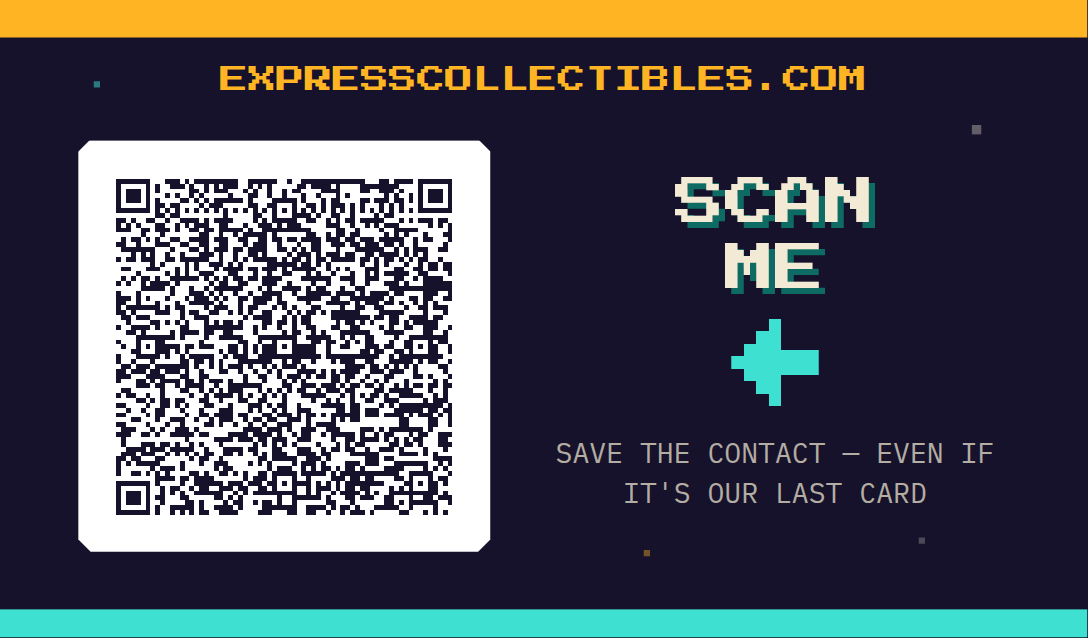
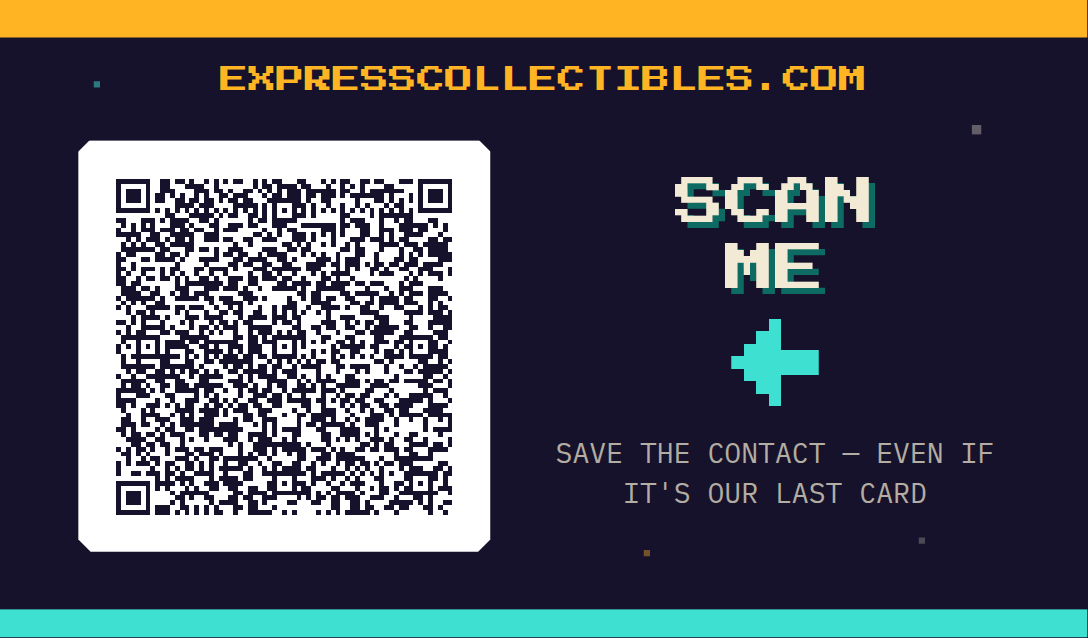
Align vCard QR fields with the printed card
Lowercase the email, use the bare expresscollectibles.com URL (the
verified-working form), and restore the Buy / Sell / Trade slashes in
the vCard NOTE so a scanned contact matches the card text exactly.
QR stays version 13 ECC L; decode re-verified from the 300-dpi render.

Claude-Session: https://claude.ai/code/session_01Geuxd3bL8dYRBZWdDErjeD

Changed region(s): [[0.0938, 0.268, 0.4375, 0.8339]]

diff --git a/express-collectibles/business-card/Back.dc.html b/express-collectibles/business-card/Back.dc.html
@@ -46,7 +46,7 @@
       <div style="flex: none; background: #ffffff; padding: 6px; clip-path: polygon(4px 0, calc(100% - 4px) 0, 100% 4px, 100% calc(100% - 4px), calc(100% - 4px) 100%, 4px 100%, 0 calc(100% - 4px), 0 4px);">
         <svg width="120" height="120" viewBox="0 0 77 77" shape-rendering="crispEdges" style="display: block;">
           <path fill="#ffffff" d="M0 0h77v77h-77z"></path>
-          <path stroke="#16122b" stroke-width="1" fill="none" d="M4 4.5h7m3 0h3m1 0h1m1 0h9m2 0h6m2 0h1m2 0h13m3 0h2m1 0h4m1 0h7m-69 1h1m5 0h1m1 0h1m2 0h3m1 0h1m2 0h1m1 0h1m1 0h3m2 0h1m1 0h1m1 0h1m5 0h2m1 0h4m1 0h1m4 0h8m4 0h1m5 0h1m-69 1h1m1 0h3m1 0h1m1 0h1m6 0h2m1 0h1m1 0h3m3 0h1m1 0h1m2 0h1m2 0h1m1 0h2m4 0h4m4 0h2m2 0h3m1 0h1m3 0h1m1 0h3m1 0h1m-69 1h1m1 0h3m1 0h1m3 0h1m1 0h1m2 0h1m1 0h1m5 0h1m3 0h2m2 0h1m2 0h1m3 0h1m2 0h1m3 0h1m1 0h1m7 0h1m1 0h1m2 0h1m1 0h1m1 0h3m1 0h1m-69 1h1m1 0h3m1 0h1m1 0h1m4 0h2m1 0h1m1 0h1m1 0h6m1 0h1m4 0h5m1 0h1m3 0h1m1 0h2m4 0h2m1 0h3m1 0h2m1 0h1m1 0h1m1 0h3m1 0h1m-69 1h1m5 0h1m1 0h2m1 0h2m4 0h1m1 0h3m5 0h2m2 0h2m3 0h1m2 0h2m1 0h1m1 0h3m1 0h1m1 0h1m3 0h1m1 0h1m1 0h1m3 0h1m5 0h1m-69 1h7m1 0h1m1 0h1m1 0h1m1 0h1m1 0h1m1 0h1m1 0h1m1 0h1m1 0h1m1 0h1m1 0h1m1 0h1m1 0h1m1 0h1m1 0h1m1 0h1m1 0h1m1 0h1m1 0h1m1 0h1m1 0h1m1 0h1m1 0h1m1 0h1m1 0h1m1 0h1m1 0h1m1 0h7m-61 1h2m1 0h2m9 0h1m5 0h2m2 0h1m3 0h4m1 0h1m2 0h2m2 0h1m4 0h1m1 0h2m-57 1h2m1 0h1m2 0h2m2 0h1m2 0h4m1 0h1m1 0h4m4 0h1m1 0h1m1 0h5m2 0h2m2 0h1m1 0h1m1 0h2m1 0h5m3 0h1m1 0h1m1 0h3m1 0h2m-68 1h1m1 0h1m1 0h1m3 0h2m2 0h1m1 0h1m1 0h3m2 0h2m3 0h1m2 0h3m1 0h1m1 0h3m5 0h3m2 0h1m2 0h1m1 0h1m1 0h3m6 0h1m1 0h1m1 0h1m-69 1h3m2 0h2m1 0h3m1 0h1m2 0h2m1 0h2m1 0h5m1 0h1m2 0h10m5 0h2m2 0h1m4 0h1m2 0h5m6 0h1m-64 1h1m3 0h1m7 0h2m2 0h1m2 0h1m1 0h5m1 0h1m6 0h2m2 0h1m1 0h2m1 0h2m5 0h1m1 0h1m1 0h1m3 0h1m3 0h2m-68 1h1m1 0h2m1 0h1m1 0h1m2 0h2m2 0h4m1 0h3m2 0h2m2 0h2m1 0h2m1 0h2m1 0h4m1 0h3m1 0h2m1 0h3m1 0h5m2 0h1m1 0h2m3 0h1m-69 1h2m2 0h1m3 0h3m2 0h2m2 0h2m2 0h2m3 0h1m1 0h3m2 0h1m3 0h1m2 0h2m2 0h3m1 0h2m1 0h3m1 0h2m1 0h1m2 0h1m5 0h1m-67 1h7m3 0h1m3 0h2m1 0h1m1 0h3m1 0h2m1 0h4m2 0h2m1 0h1m1 0h1m1 0h2m3 0h1m3 0h6m2 0h1m1 0h1m1 0h3m2 0h2m-65 1h1m1 0h1m1 0h1m2 0h1m2 0h1m3 0h3m1 0h1m2 0h1m2 0h2m1 0h1m4 0h1m1 0h3m1 0h1m1 0h3m1 0h2m2 0h2m1 0h4m1 0h1m1 0h1m1 0h1m-64 1h1m1 0h2m1 0h3m2 0h2m1 0h6m2 0h1m2 0h1m1 0h1m1 0h5m1 0h1m1 0h2m1 0h1m1 0h2m1 0h5m1 0h2m1 0h1m1 0h2m1 0h1m1 0h1m1 0h2m2 0h1m-60 1h1m1 0h1m4 0h1m1 0h1m2 0h3m1 0h1m1 0h1m5 0h6m1 0h2m1 0h1m1 0h1m6 0h1m2 0h1m1 0h1m3 0h1m2 0h1m1 0h2m1 0h2m-68 1h2m3 0h3m3 0h1m1 0h1m1 0h1m3 0h1m1 0h4m1 0h2m1 0h3m1 0h1m1 0h5m2 0h1m1 0h1m1 0h1m3 0h3m3 0h2m2 0h2m1 0h2m1 0h2m-65 1h1m5 0h1m1 0h1m1 0h1m2 0h3m3 0h2m3 0h1m2 0h1m2 0h2m3 0h1m1 0h1m2 0h1m3 0h1m2 0h1m1 0h1m1 0h5m2 0h2m4 0h1m-68 1h1m1 0h1m1 0h2m1 0h1m2 0h6m1 0h1m1 0h1m1 0h1m1 0h2m1 0h2m1 0h4m4 0h6m2 0h3m2 0h3m3 0h2m2 0h1m1 0h4m-67 1h1m1 0h1m2 0h1m1 0h4m1 0h1m6 0h1m1 0h2m2 0h2m3 0h3m2 0h1m4 0h1m2 0h1m4 0h1m2 0h1m3 0h3m1 0h1m3 0h6m-64 1h5m1 0h1m3 0h1m2 0h1m1 0h6m3 0h1m1 0h1m2 0h4m1 0h1m1 0h2m3 0h1m2 0h2m5 0h13m-69 1h1m3 0h1m6 0h1m3 0h3m1 0h1m1 0h1m2 0h1m2 0h1m2 0h4m2 0h1m2 0h5m1 0h4m1 0h1m1 0h4m1 0h2m4 0h3m2 0h1m-69 1h3m1 0h1m1 0h1m3 0h1m3 0h1m1 0h3m1 0h1m1 0h1m2 0h2m1 0h4m1 0h1m3 0h5m2 0h2m2 0h7m1 0h1m3 0h2m1 0h2m2 0h2m-69 1h2m2 0h1m3 0h1m3 0h1m2 0h5m1 0h1m3 0h1m2 0h3m2 0h2m4 0h1m3 0h5m1 0h1m1 0h3m1 0h2m1 0h1m2 0h1m1 0h1m1 0h1m-66 1h1m1 0h7m1 0h1m1 0h2m4 0h1m1 0h3m2 0h1m1 0h2m3 0h1m1 0h1m1 0h1m3 0h2m4 0h1m2 0h2m2 0h2m4 0h1m2 0h2m1 0h3m-68 1h2m1 0h1m4 0h3m2 0h1m1 0h2m2 0h2m2 0h1m1 0h1m1 0h1m2 0h2m3 0h1m1 0h1m1 0h2m1 0h1m1 0h6m4 0h5m4 0h1m3 0h1m-67 1h2m1 0h3m6 0h1m2 0h3m7 0h1m1 0h4m2 0h1m1 0h1m1 0h2m4 0h8m1 0h2m1 0h2m2 0h4m1 0h2m-65 1h1m4 0h2m1 0h1m1 0h1m1 0h1m3 0h1m1 0h1m1 0h2m1 0h1m4 0h2m1 0h2m1 0h1m1 0h2m5 0h1m1 0h2m1 0h1m1 0h1m3 0h2m1 0h1m1 0h5m-66 1h1m2 0h4m1 0h1m4 0h2m3 0h8m2 0h1m1 0h1m2 0h1m2 0h1m2 0h2m3 0h2m2 0h2m4 0h1m1 0h1m2 0h2m2 0h3m2 0h1m-67 1h2m1 0h1m5 0h1m1 0h4m1 0h2m2 0h2m4 0h1m5 0h1m1 0h2m2 0h1m1 0h1m3 0h6m3 0h4m4 0h2m2 0h1m-64 1h8m1 0h1m4 0h1m2 0h5m3 0h8m2 0h5m2 0h1m1 0h1m2 0h2m4 0h1m2 0h8m-68 1h1m3 0h1m3 0h2m7 0h1m7 0h2m2 0h1m2 0h1m3 0h1m3 0h2m1 0h2m2 0h1m1 0h1m1 0h2m3 0h1m2 0h2m3 0h1m1 0h2m-67 1h1m2 0h1m1 0h1m1 0h5m1 0h2m1 0h3m3 0h2m1 0h1m1 0h1m1 0h3m1 0h1m1 0h5m2 0h1m2 0h2m3 0h3m1 0h2m2 0h2m1 0h1m1 0h2m2 0h1m-66 1h2m3 0h3m1 0h1m1 0h1m6 0h1m1 0h2m1 0h1m1 0h1m1 0h3m3 0h5m2 0h1m6 0h2m1 0h2m2 0h2m1 0h1m3 0h2m2 0h1m-69 1h1m3 0h5m1 0h1m2 0h1m1 0h5m2 0h1m1 0h3m2 0h13m1 0h11m2 0h1m1 0h9m-67 1h1m2 0h1m3 0h1m5 0h2m1 0h2m1 0h1m1 0h1m3 0h7m2 0h1m1 0h2m2 0h1m3 0h1m1 0h3m2 0h2m3 0h5m1 0h1m1 0h2m2 0h1m-68 1h2m1 0h3m1 0h7m1 0h1m2 0h1m1 0h1m1 0h3m1 0h1m2 0h1m1 0h1m1 0h3m1 0h1m8 0h4m1 0h2m1 0h1m1 0h1m1 0h1m1 0h1m4 0h2m-68 1h2m1 0h3m1 0h2m1 0h3m1 0h1m2 0h1m3 0h2m2 0h1m2 0h1m2 0h1m1 0h1m3 0h4m1 0h1m1 0h1m1 0h4m2 0h3m1 0h3m2 0h1m5 0h1m-68 1h3m3 0h4m3 0h2m2 0h2m7 0h1m2 0h2m2 0h1m1 0h3m1 0h1m1 0h2m1 0h2m1 0h2m2 0h1m3 0h2m4 0h2m1 0h1m3 0h1m-69 1h1m3 0h2m1 0h1m1 0h4m1 0h2m1 0h1m1 0h3m1 0h1m2 0h1m3 0h1m3 0h1m1 0h1m1 0h1m5 0h2m1 0h1m2 0h1m2 0h1m1 0h1m3 0h1m5 0h1m1 0h1m-64 1h3m1 0h2m2 0h1m1 0h4m2 0h1m2 0h7m4 0h2m2 0h3m1 0h3m1 0h1m1 0h2m1 0h2m1 0h1m2 0h1m1 0h1m1 0h2m1 0h2m1 0h2m-68 1h2m6 0h1m3 0h2m2 0h1m1 0h1m1 0h1m1 0h3m3 0h1m1 0h1m1 0h1m1 0h1m1 0h2m2 0h1m1 0h3m1 0h2m4 0h2m1 0h5m3 0h1m2 0h1m-68 1h1m1 0h2m2 0h1m2 0h1m5 0h1m2 0h1m1 0h4m1 0h1m1 0h1m2 0h1m1 0h1m1 0h1m3 0h5m3 0h1m1 0h1m1 0h1m1 0h2m1 0h1m2 0h5m2 0h1m1 0h1m-64 1h2m1 0h1m1 0h2m1 0h2m3 0h2m2 0h1m3 0h2m2 0h2m3 0h1m5 0h1m2 0h1m1 0h1m2 0h1m2 0h2m2 0h3m5 0h1m1 0h3m-68 1h2m4 0h1m2 0h2m1 0h1m1 0h1m3 0h2m3 0h1m3 0h3m1 0h1m1 0h2m2 0h1m4 0h5m1 0h2m4 0h1m1 0h1m1 0h9m1 0h1m-67 1h1m2 0h1m2 0h2m3 0h1m3 0h1m3 0h3m3 0h1m1 0h1m2 0h1m1 0h1m2 0h3m5 0h2m1 0h2m1 0h3m3 0h6m1 0h2m1 0h2m-69 1h2m4 0h1m1 0h2m4 0h1m2 0h2m1 0h4m1 0h2m3 0h2m1 0h3m1 0h1m1 0h2m1 0h1m1 0h6m1 0h3m1 0h4m1 0h1m1 0h3m1 0h1m1 0h1m-66 1h2m3 0h1m2 0h3m2 0h1m2 0h1m1 0h3m2 0h1m1 0h2m1 0h2m2 0h3m1 0h1m4 0h1m1 0h1m1 0h2m8 0h2m4 0h2m2 0h1m-69 1h2m4 0h1m3 0h1m2 0h1m4 0h2m1 0h1m2 0h1m2 0h1m2 0h1m2 0h3m3 0h1m1 0h4m13 0h2m4 0h2m2 0h1m-68 1h3m3 0h1m1 0h1m2 0h3m1 0h1m9 0h4m1 0h3m1 0h1m2 0h3m2 0h3m4 0h3m1 0h1m1 0h7m1 0h1m-65 1h3m2 0h2m1 0h1m2 0h5m1 0h2m4 0h4m1 0h4m1 0h1m2 0h1m1 0h2m2 0h1m1 0h5m1 0h1m2 0h1m1 0h2m3 0h1m1 0h2m2 0h3m-68 1h1m12 0h1m5 0h4m1 0h3m1 0h2m1 0h3m2 0h3m4 0h1m2 0h2m1 0h4m1 0h1m1 0h1m1 0h1m1 0h2m3 0h2m-67 1h1m3 0h3m1 0h2m1 0h1m2 0h1m1 0h1m3 0h1m6 0h1m1 0h1m1 0h1m1 0h1m1 0h1m4 0h1m3 0h1m1 0h1m1 0h2m5 0h2m1 0h2m1 0h1m3 0h3m-67 1h4m1 0h3m1 0h5m2 0h1m3 0h4m1 0h2m3 0h2m3 0h3m2 0h1m1 0h2m1 0h2m2 0h1m2 0h3m1 0h1m4 0h1m3 0h1m-67 1h3m1 0h3m2 0h1m1 0h1m1 0h1m1 0h1m1 0h2m2 0h2m1 0h1m2 0h1m1 0h1m1 0h3m2 0h4m1 0h2m4 0h6m4 0h4m1 0h1m1 0h1m-66 1h2m1 0h2m3 0h2m5 0h1m1 0h2m2 0h1m7 0h2m1 0h5m2 0h3m1 0h1m7 0h3m1 0h2m8 0h4m-69 1h1m1 0h1m1 0h5m4 0h1m3 0h1m2 0h3m4 0h1m1 0h1m1 0h1m4 0h1m1 0h3m1 0h1m4 0h3m1 0h3m3 0h7m2 0h1m1 0h1m-69 1h1m6 0h1m1 0h3m1 0h1m6 0h1m1 0h2m7 0h1m1 0h3m2 0h1m1 0h1m1 0h2m1 0h1m1 0h2m1 0h1m4 0h4m4 0h1m1 0h1m1 0h1m-68 1h1m2 0h2m1 0h1m1 0h1m1 0h1m4 0h2m1 0h1m2 0h2m1 0h1m1 0h1m2 0h2m1 0h5m1 0h5m1 0h1m1 0h12m2 0h5m3 0h1m-61 1h4m1 0h2m1 0h4m6 0h1m1 0h3m1 0h1m3 0h1m2 0h1m4 0h3m1 0h2m1 0h2m4 0h2m1 0h1m3 0h1m1 0h2m-68 1h7m1 0h1m4 0h1m2 0h6m1 0h3m1 0h3m1 0h2m1 0h1m1 0h4m1 0h1m1 0h1m1 0h1m1 0h8m4 0h2m1 0h1m1 0h2m1 0h1m-68 1h1m5 0h1m2 0h1m1 0h2m2 0h1m1 0h2m2 0h3m1 0h2m2 0h2m1 0h1m3 0h1m2 0h1m1 0h3m1 0h1m1 0h2m1 0h2m4 0h1m1 0h1m1 0h1m3 0h2m-66 1h1m1 0h3m1 0h1m2 0h1m1 0h1m1 0h1m2 0h6m2 0h1m1 0h1m1 0h9m2 0h1m1 0h1m2 0h1m1 0h4m1 0h1m1 0h1m2 0h10m1 0h1m-68 1h1m1 0h3m1 0h1m1 0h2m3 0h2m5 0h2m1 0h1m1 0h1m7 0h1m2 0h6m1 0h1m3 0h2m1 0h3m2 0h2m3 0h1m2 0h2m1 0h3m-69 1h1m1 0h3m1 0h1m2 0h1m4 0h2m1 0h1m4 0h1m1 0h2m2 0h1m1 0h2m1 0h1m2 0h1m6 0h2m3 0h1m6 0h2m1 0h1m1 0h6m2 0h1m-69 1h1m5 0h1m1 0h1m2 0h5m1 0h1m2 0h4m1 0h1m4 0h7m2 0h4m1 0h1m1 0h2m1 0h1m3 0h5m2 0h1m4 0h1m-66 1h7m1 0h1m2 0h1m1 0h1m1 0h1m1 0h2m2 0h4m4 0h3m3 0h2m2 0h2m2 0h1m2 0h1m1 0h3m1 0h1m5 0h2m3 0h1m1 0h1m1 0h1"></path>
+          <path stroke="#16122b" stroke-width="1" fill="none" d="M4 4.5h7m2 0h2m1 0h2m1 0h1m2 0h1m1 0h1m1 0h1m1 0h2m2 0h1m1 0h1m1 0h2m3 0h2m3 0h1m1 0h1m1 0h2m2 0h2m1 0h2m3 0h3m1 0h7m-69 1h1m5 0h1m2 0h2m3 0h4m2 0h1m7 0h1m1 0h2m1 0h4m1 0h2m3 0h1m2 0h1m1 0h1m1 0h1m4 0h2m5 0h1m5 0h1m-69 1h1m1 0h3m1 0h1m2 0h3m4 0h3m1 0h2m1 0h1m2 0h2m1 0h1m1 0h1m1 0h1m1 0h3m1 0h6m1 0h2m2 0h1m1 0h7m3 0h1m1 0h3m1 0h1m-69 1h1m1 0h3m1 0h1m1 0h2m1 0h1m1 0h1m2 0h1m1 0h1m2 0h2m1 0h3m3 0h1m1 0h2m1 0h3m1 0h2m1 0h3m1 0h1m1 0h7m1 0h1m3 0h1m1 0h1m1 0h3m1 0h1m-69 1h1m1 0h3m1 0h1m1 0h2m2 0h2m1 0h2m1 0h2m1 0h1m1 0h2m1 0h2m3 0h7m1 0h1m2 0h2m5 0h1m3 0h2m1 0h1m1 0h1m1 0h1m1 0h1m1 0h3m1 0h1m-69 1h1m5 0h1m5 0h4m1 0h3m4 0h5m1 0h1m1 0h1m3 0h3m1 0h1m2 0h1m2 0h1m2 0h1m1 0h1m3 0h1m1 0h2m3 0h1m5 0h1m-69 1h7m1 0h1m1 0h1m1 0h1m1 0h1m1 0h1m1 0h1m1 0h1m1 0h1m1 0h1m1 0h1m1 0h1m1 0h1m1 0h1m1 0h1m1 0h1m1 0h1m1 0h1m1 0h1m1 0h1m1 0h1m1 0h1m1 0h1m1 0h1m1 0h1m1 0h1m1 0h1m1 0h1m1 0h7m-59 1h2m3 0h5m1 0h1m1 0h2m2 0h2m1 0h1m1 0h1m3 0h3m1 0h1m5 0h2m4 0h1m1 0h7m-61 1h2m3 0h3m1 0h1m1 0h4m2 0h2m1 0h1m6 0h1m1 0h2m1 0h5m9 0h1m1 0h3m3 0h1m2 0h1m1 0h2m3 0h2m-65 1h1m1 0h1m1 0h1m1 0h1m3 0h3m1 0h1m3 0h2m2 0h3m1 0h2m3 0h3m3 0h7m1 0h2m1 0h3m2 0h1m3 0h6m1 0h1m1 0h1m-68 1h1m2 0h1m1 0h3m1 0h3m1 0h2m1 0h2m2 0h1m1 0h3m5 0h1m2 0h1m1 0h2m5 0h3m1 0h1m3 0h2m2 0h3m1 0h3m1 0h2m3 0h1m-68 1h5m2 0h2m2 0h5m2 0h3m7 0h2m1 0h1m1 0h1m2 0h3m1 0h1m1 0h1m1 0h1m1 0h1m3 0h2m2 0h1m1 0h1m2 0h4m3 0h1m-65 1h1m1 0h1m1 0h3m1 0h1m1 0h2m1 0h1m2 0h3m1 0h2m2 0h2m2 0h3m3 0h3m1 0h1m3 0h1m3 0h3m1 0h3m1 0h1m1 0h2m4 0h2m1 0h2m-68 1h1m1 0h1m1 0h1m2 0h2m1 0h5m8 0h1m2 0h1m6 0h2m1 0h1m1 0h1m2 0h1m1 0h1m2 0h1m1 0h1m4 0h4m1 0h3m1 0h5m-67 1h7m1 0h2m3 0h2m1 0h2m1 0h1m2 0h3m4 0h3m2 0h2m1 0h2m6 0h2m1 0h2m3 0h1m3 0h1m2 0h2m1 0h4m-68 1h1m1 0h2m4 0h2m1 0h2m1 0h1m5 0h1m1 0h2m1 0h2m2 0h1m1 0h4m3 0h1m1 0h1m1 0h1m2 0h1m3 0h2m2 0h1m4 0h1m1 0h1m1 0h1m1 0h5m-69 1h2m3 0h2m1 0h4m1 0h1m3 0h4m3 0h2m1 0h4m2 0h2m1 0h1m4 0h3m1 0h1m1 0h3m3 0h1m3 0h2m1 0h2m4 0h3m-69 1h1m2 0h1m8 0h1m5 0h1m4 0h2m1 0h2m2 0h2m2 0h2m3 0h4m1 0h2m1 0h3m1 0h1m1 0h2m1 0h2m1 0h3m1 0h4m-67 1h2m1 0h1m1 0h3m1 0h1m1 0h2m3 0h2m1 0h4m1 0h1m3 0h3m1 0h6m1 0h3m3 0h1m1 0h1m1 0h1m2 0h2m1 0h1m2 0h2m2 0h3m3 0h1m-69 1h1m1 0h1m2 0h1m3 0h1m1 0h1m1 0h1m2 0h1m2 0h1m2 0h1m4 0h1m2 0h2m1 0h1m2 0h1m3 0h1m1 0h1m1 0h4m4 0h1m1 0h3m3 0h1m1 0h1m1 0h3m1 0h1m-69 1h2m2 0h1m1 0h2m1 0h2m1 0h1m1 0h1m2 0h2m1 0h1m2 0h3m1 0h2m1 0h3m1 0h2m2 0h1m3 0h2m1 0h1m2 0h1m10 0h1m1 0h1m4 0h1m-67 1h2m1 0h2m7 0h1m1 0h8m1 0h2m2 0h2m4 0h2m1 0h4m1 0h2m1 0h4m1 0h2m1 0h3m3 0h1m1 0h3m-62 1h3m1 0h2m1 0h1m3 0h3m3 0h3m1 0h3m1 0h1m2 0h1m2 0h5m1 0h1m2 0h6m4 0h1m3 0h1m2 0h3m3 0h3m-66 1h4m2 0h2m2 0h1m1 0h2m1 0h3m6 0h3m9 0h2m1 0h2m4 0h2m1 0h5m2 0h1m1 0h1m1 0h3m1 0h4m-68 1h1m1 0h6m1 0h1m2 0h5m1 0h2m1 0h3m2 0h3m1 0h1m4 0h1m2 0h1m1 0h2m1 0h2m2 0h2m3 0h1m1 0h4m1 0h2m3 0h2m2 0h1m-68 1h1m1 0h1m1 0h1m2 0h2m9 0h1m2 0h4m1 0h1m7 0h2m3 0h4m4 0h2m1 0h2m1 0h4m1 0h3m2 0h1m1 0h1m-67 1h1m1 0h1m3 0h5m1 0h2m1 0h3m2 0h1m2 0h1m1 0h1m3 0h1m2 0h1m1 0h3m2 0h1m2 0h4m1 0h1m2 0h2m2 0h1m2 0h2m3 0h1m1 0h1m1 0h2m-66 1h1m1 0h2m1 0h1m4 0h1m1 0h1m3 0h1m2 0h2m1 0h2m2 0h2m2 0h1m1 0h1m1 0h1m1 0h1m2 0h1m1 0h1m6 0h4m5 0h4m1 0h3m1 0h1m-66 1h1m1 0h4m1 0h1m3 0h3m1 0h4m3 0h1m1 0h4m1 0h3m1 0h2m5 0h1m2 0h3m4 0h3m4 0h1m4 0h4m-69 1h2m1 0h1m1 0h1m3 0h1m3 0h1m1 0h1m3 0h1m1 0h2m1 0h1m1 0h2m4 0h1m1 0h2m1 0h1m4 0h3m2 0h1m1 0h1m1 0h2m1 0h2m3 0h2m3 0h5m-67 1h1m2 0h5m1 0h1m3 0h1m1 0h2m1 0h1m1 0h3m2 0h5m4 0h2m2 0h2m1 0h2m2 0h2m2 0h1m1 0h5m2 0h2m2 0h1m2 0h2m-69 1h1m1 0h1m1 0h2m3 0h2m1 0h3m2 0h1m1 0h1m1 0h1m2 0h1m2 0h1m1 0h3m1 0h1m1 0h1m1 0h2m2 0h1m3 0h1m3 0h2m1 0h5m2 0h2m4 0h3m-67 1h8m4 0h6m5 0h2m1 0h2m1 0h1m1 0h7m3 0h2m3 0h2m4 0h2m3 0h7m1 0h2m-67 1h1m2 0h1m3 0h1m1 0h4m1 0h2m1 0h7m2 0h2m1 0h3m3 0h1m1 0h1m1 0h1m1 0h1m2 0h2m1 0h1m1 0h1m2 0h3m1 0h2m1 0h1m3 0h2m2 0h1m-69 1h1m1 0h1m1 0h1m1 0h1m1 0h1m1 0h5m2 0h2m1 0h1m2 0h3m1 0h3m2 0h1m1 0h1m1 0h1m1 0h1m5 0h1m1 0h5m1 0h2m3 0h1m1 0h2m1 0h1m1 0h2m1 0h1m-68 1h1m3 0h1m3 0h1m1 0h1m3 0h2m2 0h4m1 0h1m1 0h1m1 0h3m2 0h1m3 0h1m3 0h1m1 0h1m1 0h2m2 0h2m3 0h1m1 0h2m1 0h1m1 0h1m3 0h4m-67 1h1m1 0h10m1 0h1m1 0h1m1 0h1m1 0h1m1 0h3m1 0h2m1 0h2m1 0h5m1 0h1m1 0h1m3 0h1m1 0h1m1 0h1m1 0h1m1 0h1m2 0h4m1 0h5m1 0h2m-67 1h1m2 0h1m4 0h2m3 0h2m2 0h2m1 0h7m3 0h1m1 0h1m1 0h1m1 0h1m1 0h1m1 0h2m1 0h2m7 0h2m1 0h1m5 0h2m2 0h1m1 0h1m-68 1h7m1 0h7m1 0h1m4 0h1m1 0h2m1 0h1m1 0h2m1 0h2m2 0h1m1 0h4m3 0h2m1 0h4m3 0h1m2 0h1m2 0h1m1 0h5m-66 1h1m1 0h2m2 0h2m1 0h1m1 0h1m1 0h2m1 0h1m1 0h1m2 0h2m1 0h5m1 0h1m1 0h3m4 0h1m3 0h1m3 0h1m1 0h1m3 0h1m3 0h2m1 0h5m1 0h1m-69 1h1m2 0h1m2 0h7m2 0h1m1 0h5m3 0h1m1 0h1m1 0h4m2 0h2m1 0h1m2 0h1m1 0h1m3 0h2m8 0h1m5 0h2m2 0h1m-67 1h5m2 0h2m2 0h2m3 0h2m4 0h3m1 0h1m3 0h4m2 0h1m1 0h1m1 0h4m2 0h3m1 0h1m1 0h2m1 0h2m1 0h5m1 0h2m1 0h1m-68 1h1m1 0h2m1 0h1m2 0h2m1 0h3m1 0h6m2 0h3m1 0h1m2 0h1m1 0h2m2 0h2m1 0h1m1 0h1m2 0h5m2 0h4m6 0h3m3 0h1m-69 1h6m1 0h1m1 0h1m2 0h5m1 0h2m2 0h1m2 0h1m1 0h2m1 0h2m2 0h1m1 0h5m1 0h3m1 0h1m4 0h2m3 0h1m6 0h1m1 0h3m-68 1h1m3 0h3m3 0h2m4 0h1m1 0h1m1 0h1m4 0h1m2 0h3m1 0h2m1 0h1m2 0h1m3 0h1m2 0h1m1 0h2m1 0h2m3 0h1m1 0h1m2 0h5m2 0h1m-68 1h4m4 0h1m2 0h1m2 0h3m2 0h2m1 0h1m1 0h1m2 0h2m2 0h3m1 0h5m1 0h2m1 0h1m1 0h2m1 0h2m2 0h2m3 0h5m1 0h1m3 0h1m-69 1h2m1 0h1m2 0h3m1 0h1m1 0h1m1 0h2m2 0h1m1 0h2m1 0h1m1 0h2m1 0h2m2 0h2m4 0h2m2 0h1m3 0h1m1 0h1m1 0h2m2 0h2m1 0h4m3 0h4m-67 1h1m3 0h1m1 0h1m4 0h4m1 0h4m1 0h1m1 0h3m2 0h3m4 0h1m2 0h1m2 0h3m2 0h1m2 0h1m1 0h1m2 0h2m1 0h2m3 0h4m-65 1h1m2 0h4m2 0h1m1 0h1m1 0h1m2 0h3m1 0h1m3 0h2m1 0h2m3 0h1m2 0h2m1 0h5m3 0h1m3 0h3m1 0h1m1 0h5m1 0h5m-68 1h2m2 0h1m2 0h3m2 0h3m1 0h3m4 0h1m1 0h2m2 0h3m4 0h1m2 0h3m1 0h1m2 0h1m1 0h1m1 0h4m2 0h1m2 0h1m2 0h1m2 0h1m1 0h1m-68 1h3m1 0h2m2 0h1m1 0h1m1 0h7m1 0h4m3 0h1m1 0h1m1 0h1m4 0h1m1 0h2m1 0h5m1 0h1m2 0h3m3 0h1m5 0h1m4 0h1m-69 1h2m1 0h1m4 0h1m1 0h2m2 0h2m1 0h9m4 0h1m1 0h1m1 0h4m3 0h2m3 0h4m3 0h1m1 0h1m7 0h1m1 0h4m-68 1h1m1 0h2m1 0h2m1 0h1m1 0h3m3 0h2m1 0h2m1 0h2m2 0h4m1 0h1m3 0h2m4 0h2m2 0h4m1 0h1m1 0h1m3 0h1m2 0h2m4 0h1m-65 1h4m2 0h2m3 0h1m1 0h1m2 0h1m3 0h3m2 0h1m1 0h3m2 0h1m1 0h1m5 0h2m1 0h1m1 0h1m1 0h1m2 0h3m1 0h1m2 0h2m2 0h1m4 0h1m-66 1h2m1 0h2m1 0h2m2 0h1m9 0h1m1 0h1m2 0h10m1 0h1m3 0h1m6 0h2m1 0h1m1 0h2m3 0h4m1 0h2m1 0h1m-69 1h1m1 0h1m1 0h2m1 0h1m2 0h1m1 0h3m1 0h2m1 0h3m3 0h1m2 0h3m1 0h1m1 0h5m1 0h3m1 0h1m1 0h1m2 0h2m1 0h2m1 0h3m1 0h2m3 0h4m-67 1h2m1 0h1m1 0h1m3 0h1m3 0h2m1 0h3m1 0h1m3 0h1m1 0h1m1 0h2m1 0h1m2 0h1m1 0h2m3 0h2m1 0h4m8 0h1m2 0h2m2 0h1m-63 1h1m2 0h1m1 0h2m3 0h3m1 0h1m2 0h2m1 0h7m2 0h1m5 0h2m2 0h3m1 0h6m3 0h1m2 0h8m-65 1h1m1 0h1m1 0h3m1 0h1m1 0h2m2 0h2m1 0h1m1 0h1m2 0h1m2 0h2m2 0h1m2 0h2m2 0h2m2 0h1m1 0h1m2 0h1m1 0h2m1 0h2m1 0h1m1 0h2m1 0h3m5 0h2m-68 1h1m6 0h1m2 0h1m1 0h1m1 0h2m1 0h1m1 0h1m1 0h5m1 0h1m2 0h1m1 0h1m1 0h4m1 0h2m3 0h1m2 0h1m1 0h1m1 0h1m2 0h1m3 0h1m1 0h3m2 0h2m1 0h1m-69 1h1m2 0h2m1 0h3m1 0h2m1 0h1m2 0h4m2 0h1m3 0h2m2 0h9m1 0h1m1 0h5m1 0h1m1 0h1m1 0h1m1 0h1m1 0h1m2 0h7m1 0h2m-61 1h1m1 0h1m1 0h4m3 0h1m1 0h4m1 0h2m4 0h1m3 0h1m3 0h3m1 0h1m2 0h1m1 0h1m3 0h2m4 0h2m3 0h2m1 0h1m-68 1h7m1 0h4m1 0h1m1 0h1m2 0h3m1 0h4m5 0h2m1 0h1m1 0h3m1 0h1m2 0h1m2 0h1m1 0h3m3 0h1m2 0h2m1 0h1m1 0h1m1 0h1m2 0h1m-68 1h1m5 0h1m1 0h1m1 0h1m3 0h1m1 0h1m2 0h2m2 0h2m2 0h2m2 0h2m3 0h1m1 0h2m4 0h2m3 0h1m2 0h1m1 0h2m1 0h1m1 0h2m3 0h1m1 0h3m-69 1h1m1 0h3m1 0h1m4 0h1m1 0h6m5 0h2m1 0h4m1 0h8m1 0h1m1 0h1m1 0h4m1 0h1m3 0h2m2 0h8m2 0h1m-69 1h1m1 0h3m1 0h1m5 0h2m1 0h1m2 0h2m3 0h2m1 0h2m2 0h3m4 0h1m1 0h1m1 0h2m1 0h2m1 0h3m2 0h3m2 0h1m3 0h2m1 0h1m-65 1h1m1 0h3m1 0h1m4 0h1m1 0h1m5 0h1m1 0h4m2 0h2m1 0h1m4 0h2m3 0h2m2 0h2m2 0h2m1 0h1m4 0h5m1 0h1m1 0h1m2 0h2m-69 1h1m5 0h1m1 0h3m2 0h2m1 0h1m1 0h1m1 0h1m3 0h2m1 0h2m3 0h1m11 0h2m2 0h2m1 0h2m2 0h2m1 0h2m3 0h2m1 0h1m-67 1h7m1 0h3m1 0h1m1 0h1m1 0h1m1 0h1m1 0h2m2 0h1m2 0h5m2 0h1m1 0h1m4 0h1m1 0h1m1 0h1m1 0h5m1 0h1m3 0h1m6 0h1m2 0h1"></path>
         </svg>
       </div>
       <div style="display: flex; flex-direction: column; align-items: center; gap: 8px; width: 150px;">

diff --git a/express-collectibles/business-card/make_qr.py b/express-collectibles/business-card/make_qr.py
@@ -21,9 +21,9 @@ LINES = [
     "TITLE:Owner",
     "TEL;TYPE=WORK,VOICE:+16188826660",
     "ADR;TYPE=WORK:;;806 3rd St;Highland;IL;62249;USA",
-    "EMAIL;TYPE=INTERNET:Neal_knebel@yahoo.com",
-    "URL:https://www.expresscollectibles.com",
-    "NOTE:TCG / Sports Cards / Video Games - Buy Sell Trade. "
+    "EMAIL;TYPE=INTERNET:neal_knebel@yahoo.com",
+    "URL:https://expresscollectibles.com",
+    "NOTE:TCG / Sports Cards / Video Games - Buy / Sell / Trade. "
     "Whatnot + eBay + Facebook: @expresscollectibles. "
     "Instagram + TikTok: @nealknebelofficial.",
     "END:VCARD",
